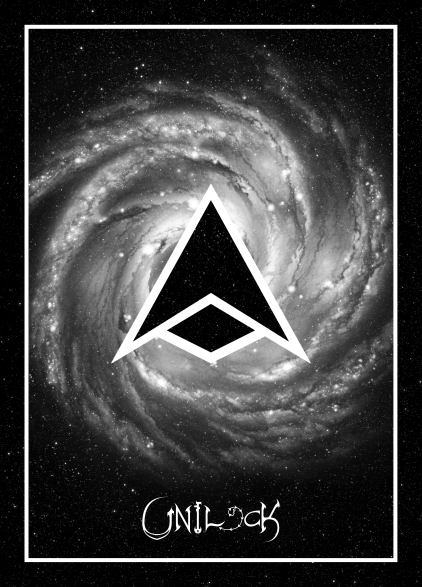
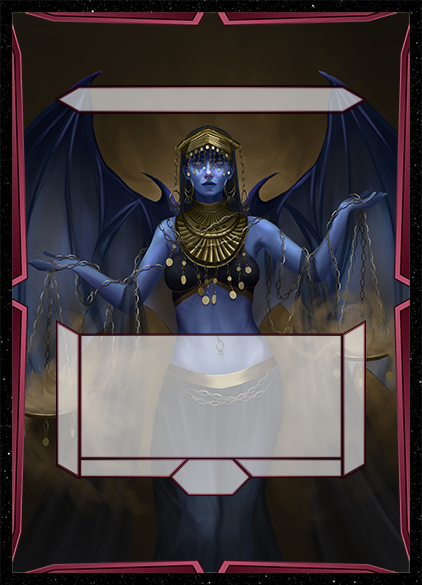
feat (index, style, images) add front to overview card
Added "Libra" as the front of the card in the overview section. I also optimised the code for the hover and flip animations to fix a bug where the card back would trigger hover effects even when Libra was facing forward.

diff --git a/css/style.css b/css/style.css
@@ -525,7 +525,6 @@ body {
         gap: 1.5rem; 
         width: 100%;
         padding: 0 1.5rem;
-        /* flex: 1; */
         justify-content: center; 
     }
 
@@ -720,14 +719,20 @@ body {
 
 /* ======================= ANIMATIONS & EFFECTS ======================= */
 
-.image-grid img, .overview-main-image {
+/* Mantiene l'effetto solo sulle immagini della griglia generica */
+.image-grid img {
     transition: transform 0.3s ease, box-shadow 0.3s ease;
     cursor: pointer;
 }
 
-.image-grid img:hover, .overview-main-image:hover {
+.image-grid img:hover {
     transform: translateY(-10px) scale(1.05);
     box-shadow: 0 0 20px var(--primary-gold);
+}
+
+/* Transizione fluida di base per le immagini della carta Unilock */
+.overview-main-image {
+    transition: transform 0.3s ease;
 }
 
 .scroll-up-btn-container {
@@ -743,16 +748,26 @@ body {
     position: relative;
     width: 100%;
     max-width: 400px;
+    /* Unificata la transizione per gestire rotazione, zoom e ombre assieme */
     transition: transform 0.6s cubic-bezier(0.4, 0, 0.2, 1), box-shadow 0.3s ease;
     transform-style: preserve-3d;
 }
 
+/* 1. HOVER SUL RETRO: Quando la carta NON è girata, zooma e si alza normalmente */
 .card-inner:hover {
+    transform: translateY(-10px) scale(1.05);
     box-shadow: 0 0 30px var(--primary-gold);
 }
 
+/* 2. STATO GIRATO: Quando cliccata, ruota di 180 gradi sul suo asse */
 .card-inner.is-flipped {
     transform: rotateY(180deg);
+}
+
+/* 3. HOVER SUL FRONTE: Quando è girata (is-flipped) mantiene la rotazione E applica lo zoom */
+.card-inner.is-flipped:hover {
+    transform: rotateY(180deg) translateY(-10px) scale(1.05);
+    box-shadow: 0 0 30px var(--primary-gold);
 }
 
 .card-front, .card-back {

diff --git a/index.html b/index.html
@@ -43,8 +43,8 @@
         <div class="overview-content-wrapper">
             <div class="overview-image-container fade-in">
                 <div class="card-inner" id="card-flipper">
-                    <img src="images/overview-card.png" alt="Sample Unilock Card Front" class="overview-main-image card-front">
-                    <img src="images/card-back.png" alt="Sample Unilock Card Back" class="overview-main-image card-back">
+                    <img src="images/overview-back.png" alt="Sample Unilock Card Back" class="overview-main-image card-front">
+                    <img src="images/overview-card.png" alt="Sample Unilock Card Front" class="overview-main-image card-back">
                 </div>
             </div>
 
@@ -82,8 +82,8 @@
         <div class="overview-content-wrapper">
             <div class="overview-image-container fade-in">
                 <div class="card-inner" id="card-flipper-mobile">
-                    <img src="images/overview-card.png" alt="Sample Unilock Card Front" class="overview-main-image card-front">
-                    <img src="images/card-back.png" alt="Sample Unilock Card Back" class="overview-main-image card-back">
+                    <img src="images/overview-back.png" alt="Sample Unilock Card Back" class="overview-main-image card-front">
+                    <img src="images/overview-card.png" alt="Sample Unilock Card Front" class="overview-main-image card-back">
                 </div>
             </div>
 